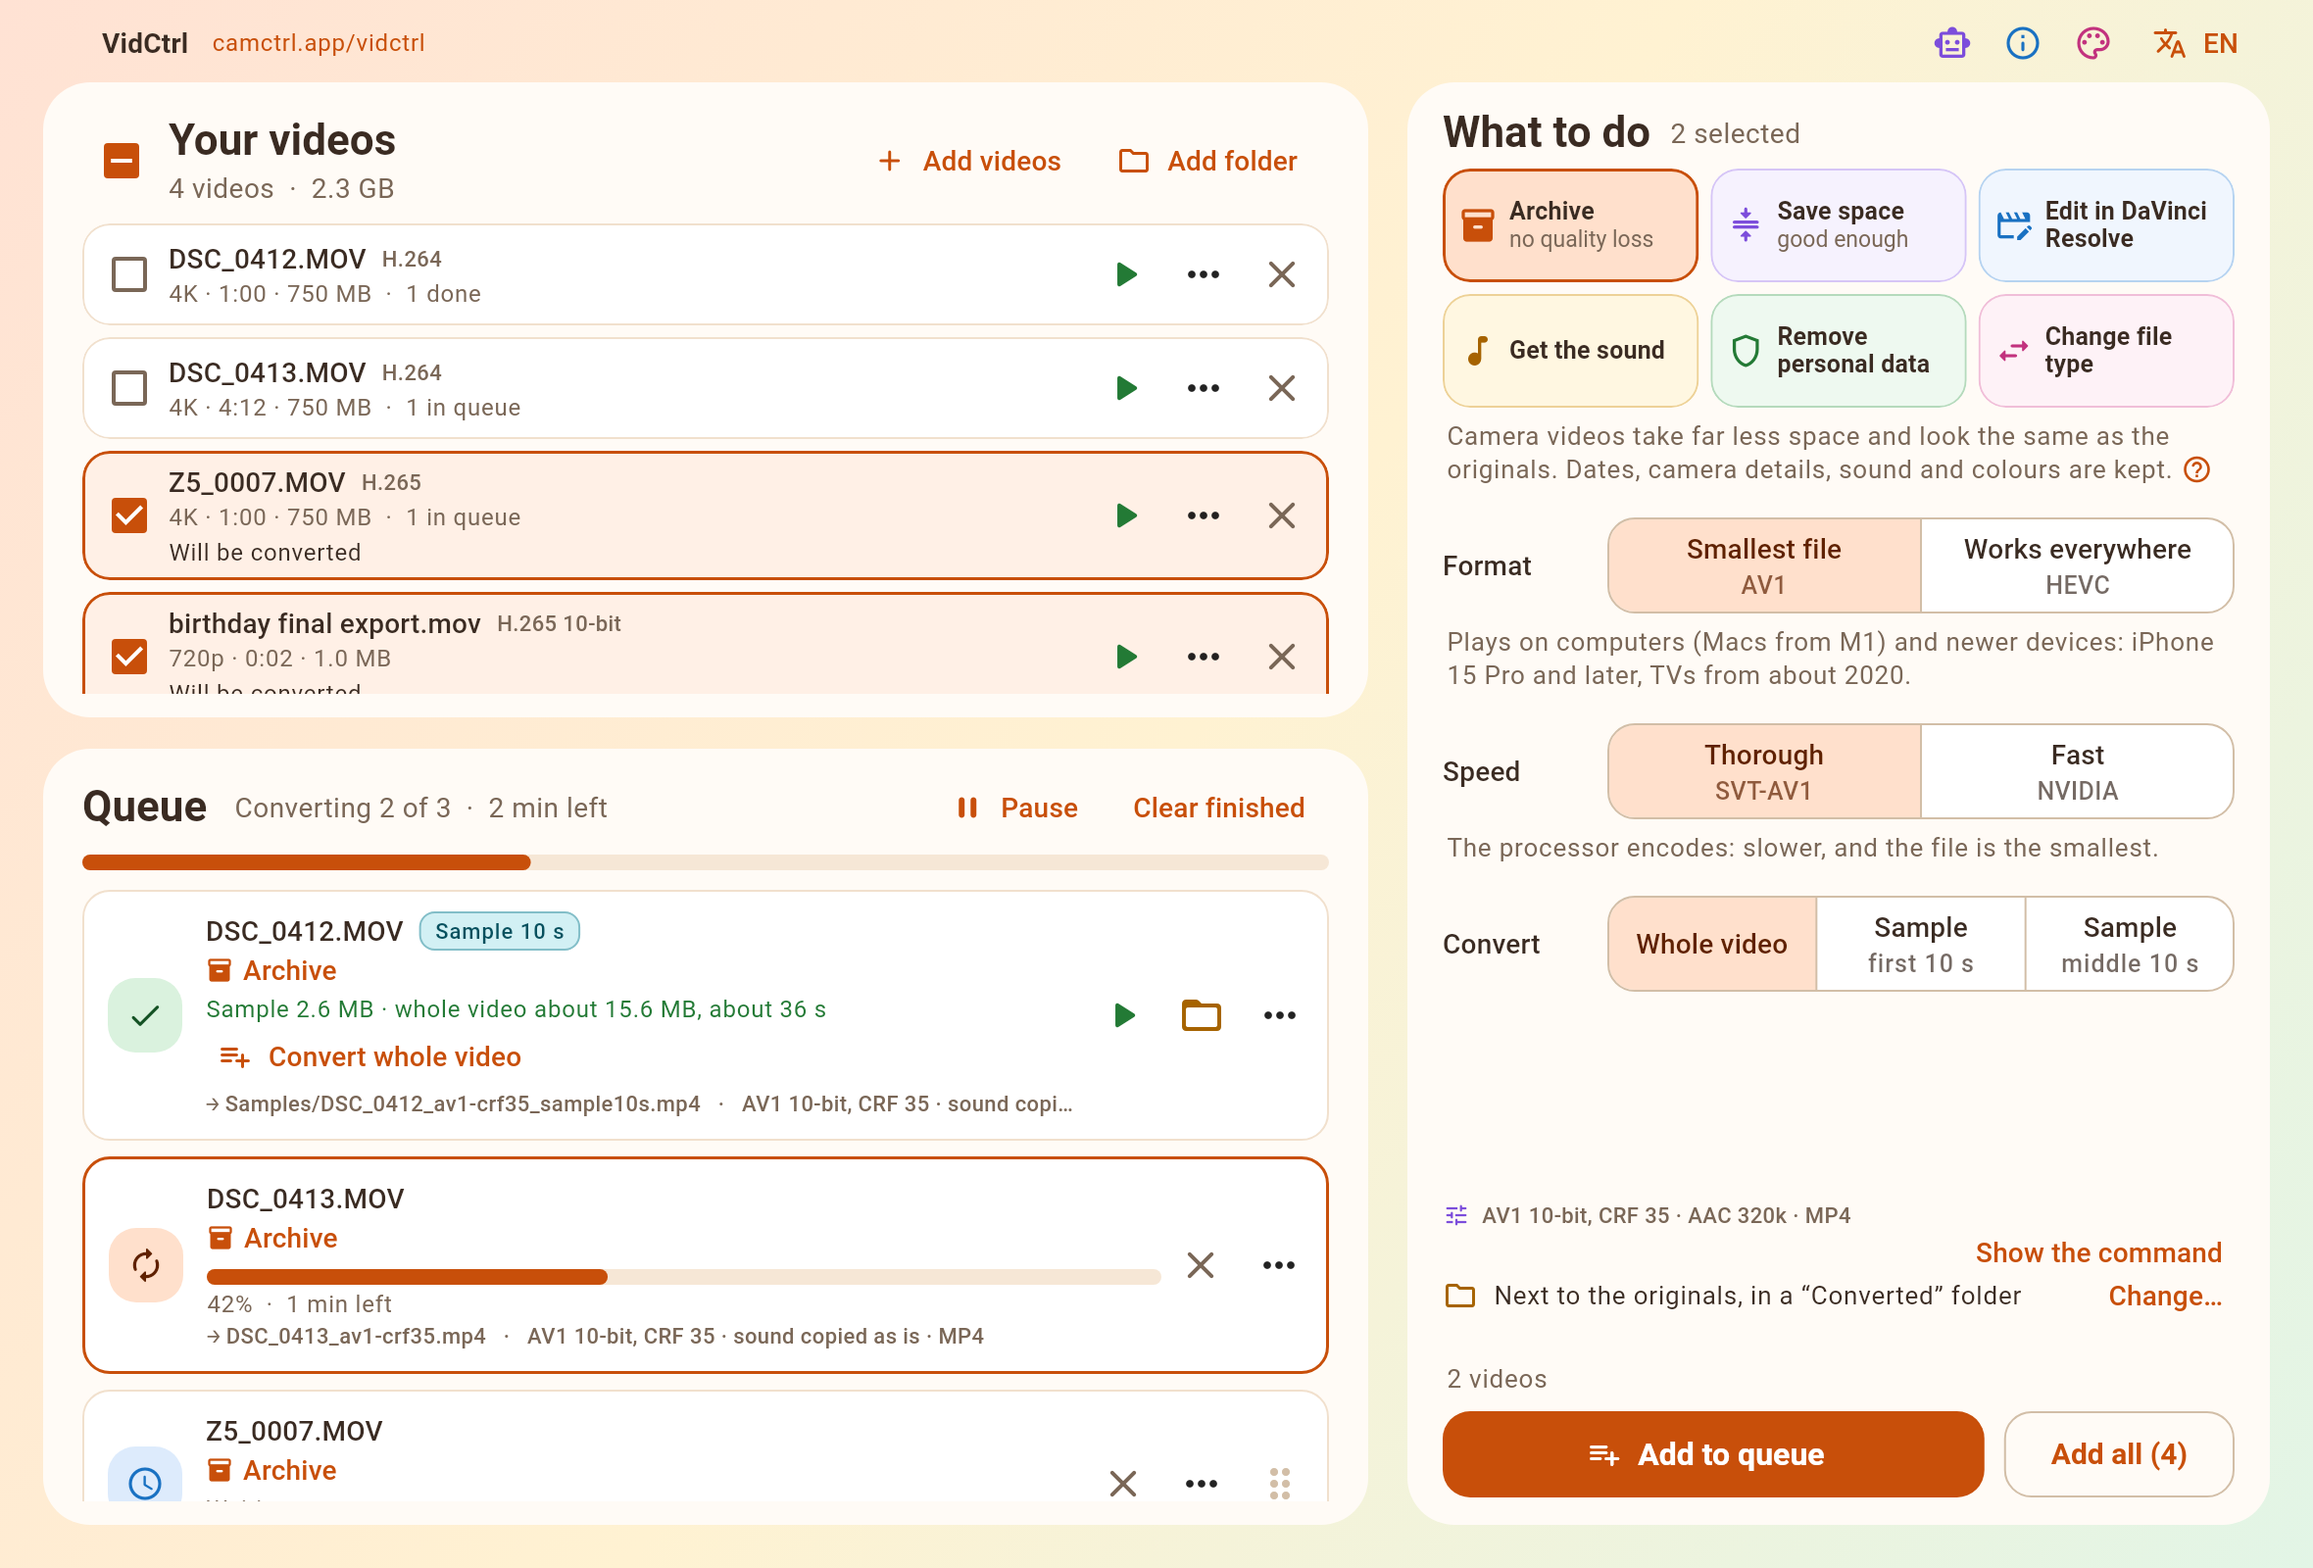
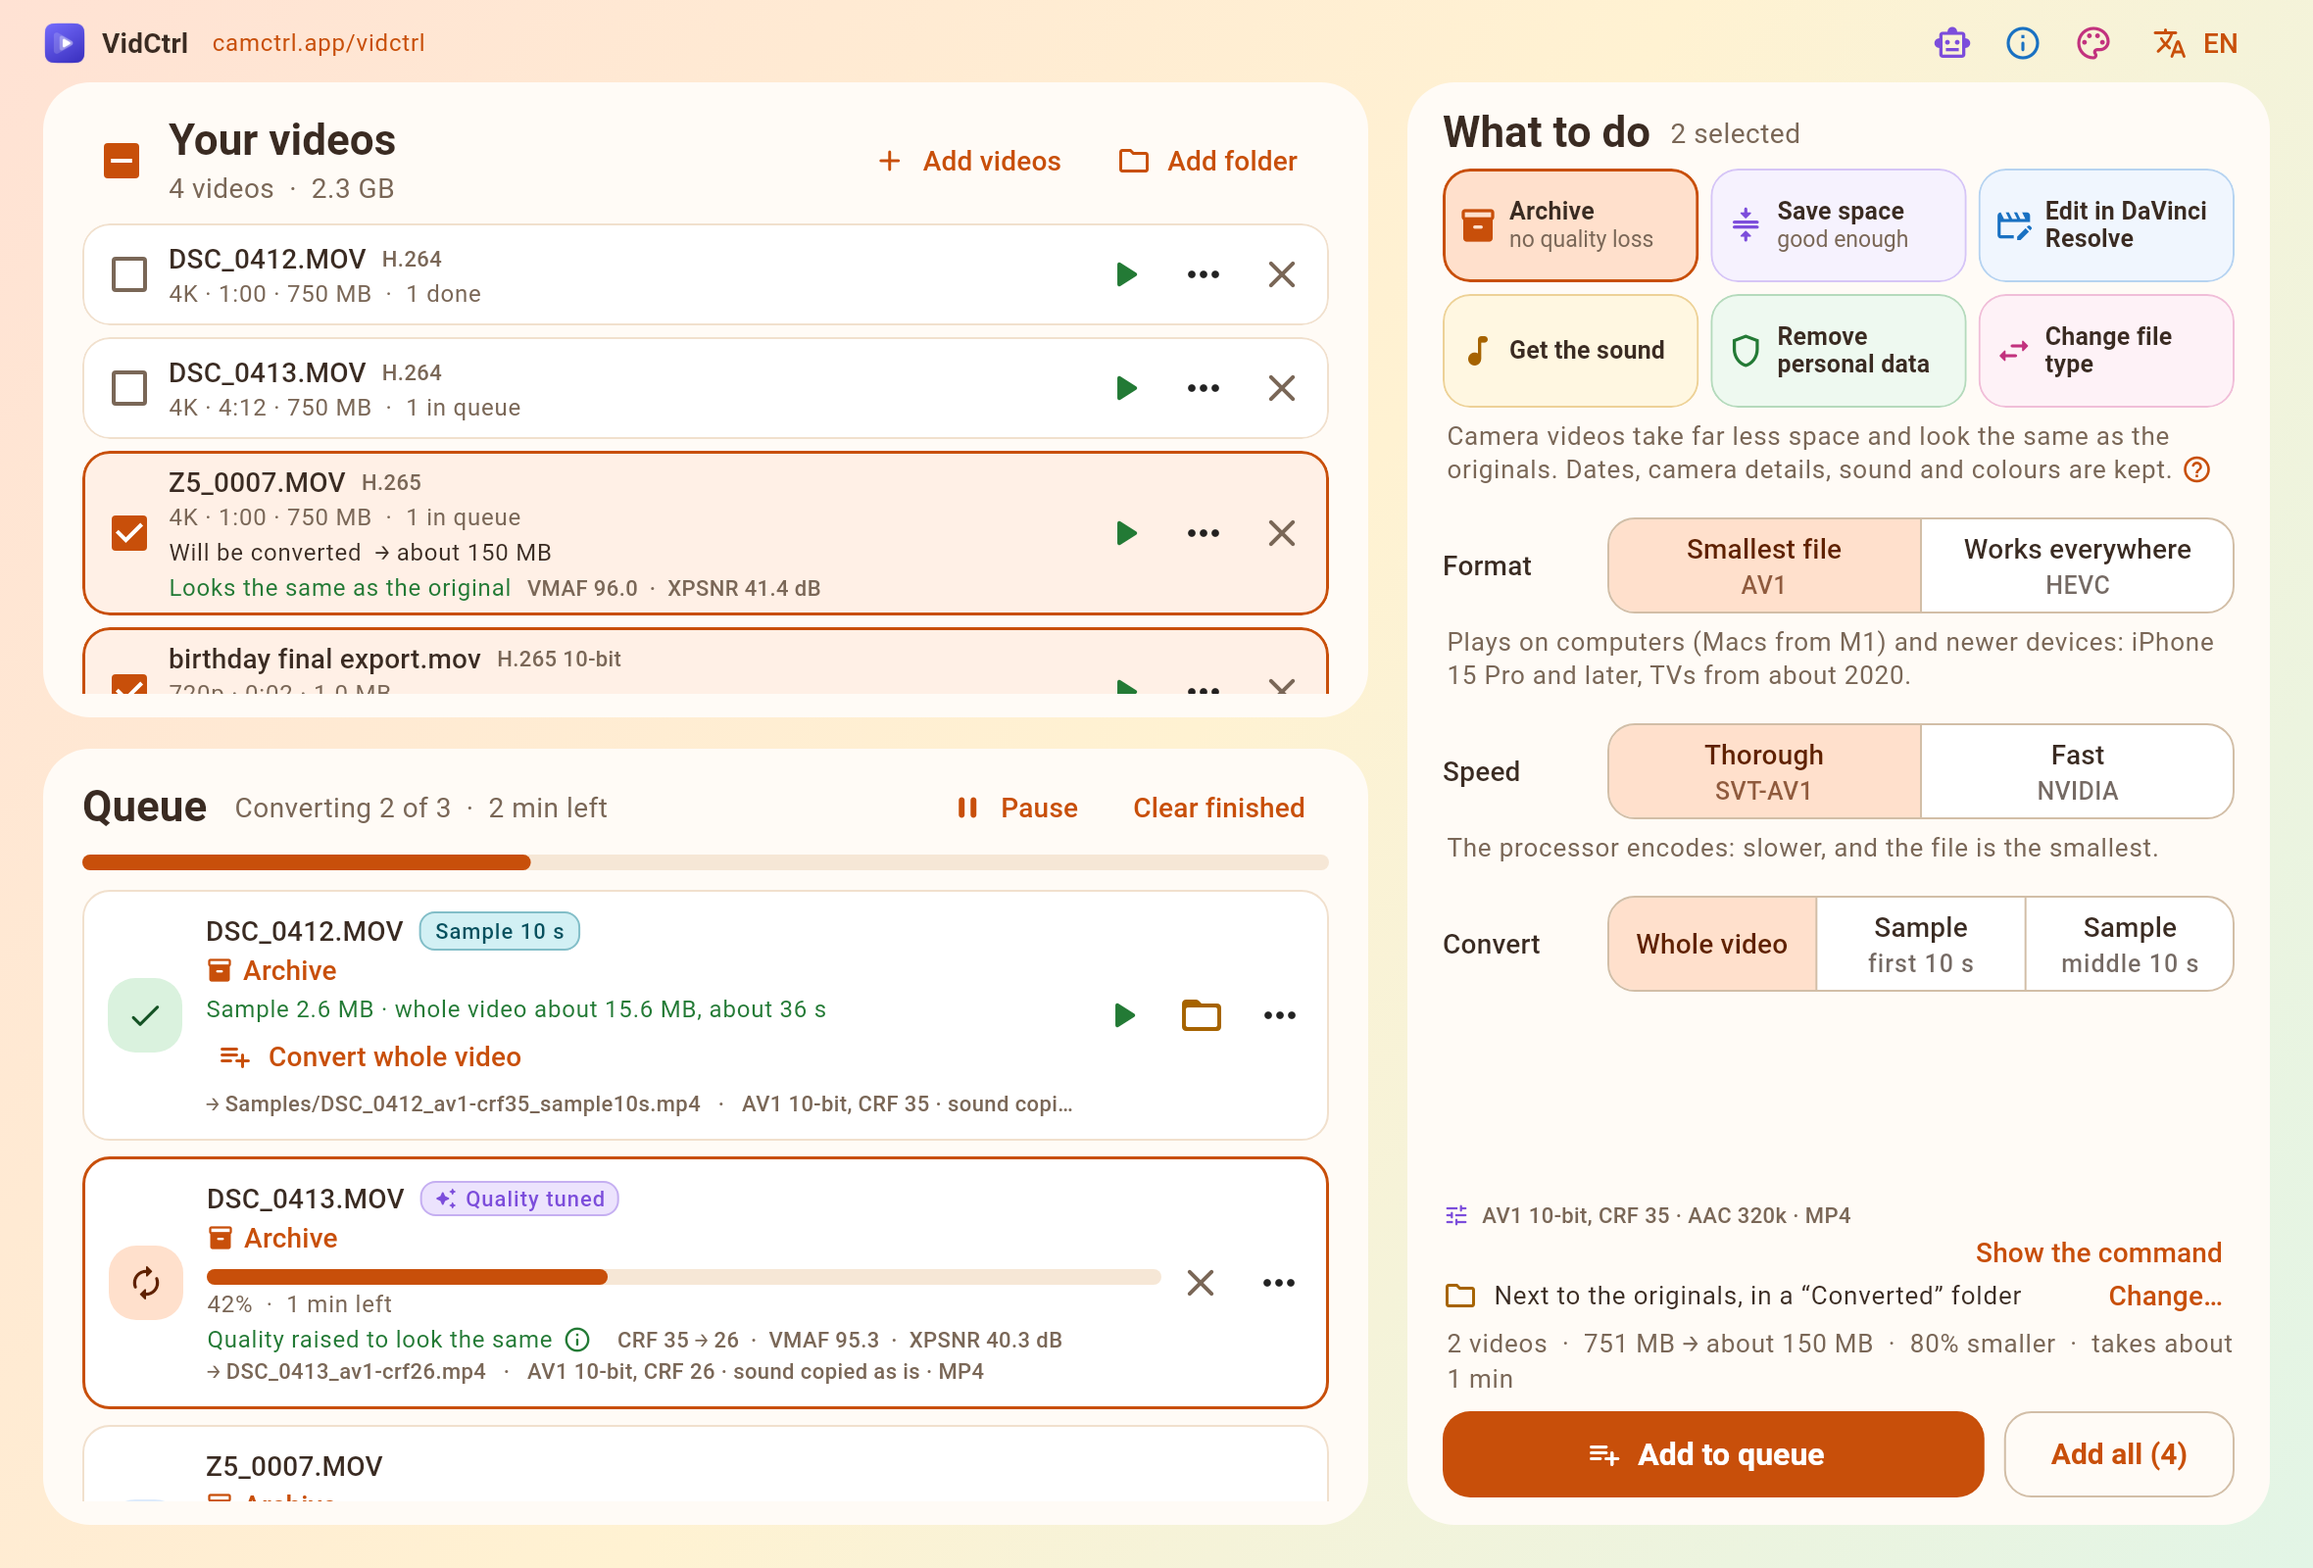
Explain how the archive chooses each video's quality, and show it in the README's pictures

diff --git a/tool/make_screenshots.dart b/tool/make_screenshots.dart
@@ -19,6 +19,8 @@ import 'package:vidctrl/app/recipe/recipe.dart';
 import 'package:vidctrl/app/recipe/recipe_controller.dart';
 import 'package:vidctrl/app/theme.dart';
 import 'package:vidctrl/core/media/ffprobe.dart';
+import 'package:vidctrl/core/quality/quality_meter.dart';
+import 'package:vidctrl/core/quality/quality_search.dart';
 
 import '../test/support/fake_media.dart';
 import '../test/support/fakes.dart';
@@ -42,6 +44,11 @@ void main() {
       debugDefaultTargetPlatformOverride = TargetPlatform.linux;
 
       final env = FakeEnvironment(capabilities: withGpu({'av1_nvenc'}));
+      // What a camera's file measures: nothing to see. The second video
+      // needs a better quality than the archive's usual one.
+      env.estimator
+        ..quality = const QualityScore(41.4, vmaf: 96.0)
+        ..choices[_videos[1]] = fakeChoice(QualityOutcome.raised);
       env.ffprobe.add(_videos[0]);
       env.ffprobe.add(
         _videos[1],
@@ -72,7 +79,12 @@ void main() {
       // The state is set through the controllers rather than by clicking, so
       // nothing is left looking hovered or pressed.
       //
-      // A finished sample of the first video...
+      // Every video measured while the queue is still idle, so the list
+      // says how close each will look...
+      await tester.pump();
+      await tester.pump();
+
+      // ...a finished sample of the first video...
       sources.select(0);
       recipe.setSample(SampleChoice.start);
       await tester.pump();
@@ -102,6 +114,12 @@ void main() {
       queue.addSelected();
       await tester.pump();
       sources.toggle(3);
+      await tester.pump();
+
+      // The header's icon is decoded outside the test's simulated clock.
+      await tester.runAsync(
+        () => Future<void>.delayed(const Duration(milliseconds: 400)),
+      );
       await tester.pump();
 
       await saveScreenshot(tester, look.name, folder: _folder, pixelRatio: 2);

diff --git a/README.md b/README.md
@@ -38,7 +38,9 @@ other:
   keeping: a fraction of the size, looking the same as the original. One
   quality, the highest; the defaults need no thought. That quality was
   measured, not guessed ([how](#how-the-archive-quality-was-measured)): the
-  smallest file that still looks the same. The "?" at the end of its
+  smallest file that still looks the same. Each video is also checked before
+  it is converted, and one that needs a better quality gets it
+  ([how](#the-quality-is-chosen-for-each-video)). The "?" at the end of its
   explanation opens the short version: the two measures, the levels they must
   reach, and the check before every release. Shooting dates, place, timecode
   and the camera's make and model are kept. Two choices, each saying what it
@@ -99,11 +101,11 @@ as the original:
 - **A second opinion:** VMAF, Netflix's measure built from viewing tests,
   rates the copies we tested 96 and up; 95 is about where people stop
   telling the two apart.
-- **Every video is different:** the setting is fixed, the footage is not.
-  Very grainy or HDR video can land a little under 42 dB (39 to 41 in our
-  tests), because grain cannot be copied exactly. VMAF stays at 95 or
-  above, and no difference shows. Reaching 42 dB on such footage would take
-  about one and a half times the file size.
+- **Every video is different:** the setting is where each video starts, not
+  where it must end. Very grainy or HDR video can land a little under 42 dB
+  (39 to 41 in our tests), because grain cannot be copied exactly, while VMAF
+  stays at 95 or above and no difference shows. Footage that falls short of
+  that too gets a better quality of its own, as below.
 
 At the same quality the files differ a lot in size, which is why the
 default is AV1 on the processor:
@@ -117,10 +119,43 @@ default is AV1 on the processor:
 | Works everywhere (HEVC), Fast on a Mac (M1) | 2.5× | 4.5× |
 
 `tool/calibrate_archive.dart` repeats the measurement on any clips, so other
-cameras and graphics cards can be checked the same way. To check one video,
-choose ⋯ → "Compare with the original" on its finished job: the app
-measures the copy against the original (VMAF and XPSNR) and says in plain
-words whether it looks the same.
+cameras and graphics cards can be checked the same way.
+
+### The quality is chosen for each video
+
+One setting cannot suit every video: an already compressed film download,
+dark and grainy, lost detail at the archive's usual quality while camera
+footage did not. So before converting, the archive checks each video:
+
+- **Measured on the video itself:** a few 3-second pieces spread over it are
+  encoded with the exact settings and compared with the original. The
+  poorest piece decides, not the average: an archive takes the original's
+  place, and the one scene that shows a difference is the one a person
+  would notice. It must reach VMAF 95 (XPSNR 42 dB with an FFmpeg that has
+  no VMAF).
+- **Looks the same:** the usual quality is kept (crf 35 for AV1, 24 for
+  HEVC); it is the poorest any video gets. The video list says so before
+  anything is converted: "Looks the same as the original".
+- **Quality raised:** a video whose poorest piece falls short gets a better
+  quality, the lowest number at which every piece looks the same, at most
+  crf 20 for AV1 (16 for HEVC), past which files grow a lot for little. It
+  is marked "Quality tuned", and its file name carries the number it got
+  (`clip_av1-crf26.mp4`). Up to six tries; most videos need one.
+- **Check by eye:** a video still short at the best quality (film grain,
+  noise or effects that a smaller file cannot copy exactly) is converted all
+  the same, its file name ending in `-check`. Its (i) shows the scores and
+  the hardest frame, original and result at their real size, to compare
+  before deleting the original.
+- **Left as it is:** a video that would keep more than four fifths of its
+  size frees too little space, so it is not converted; "Convert anyway" in
+  its ⋯ menu in the queue does it all the same.
+
+The fast choice (the graphics card) has no better quality to try, so it only
+checks and marks; Thorough raises the quality where a video needs it.
+
+To check one video after converting, choose ⋯ → "Compare with the original"
+on its finished job: the app measures the copy against the original (VMAF
+and XPSNR) and says in plain words whether it looks the same.
 
 ### How it works
 
@@ -148,6 +183,9 @@ Also:
 - **Expected size before starting:** for each selected video and in total,
   with the time it will take. Where the size depends on the footage, short
   pieces are encoded in the background with the exact settings and scaled up.
+- **How close before converting:** the same pieces are compared with the
+  original, so each video says how close the result will look ("Looks the
+  same as the original"), with the scores in small type.
 - Progress, time left and expected size while converting.
 - **Video details:** a frame of the video and its key facts, then every
   detail (codecs, bitrates, colour, HDR, sound tracks, timecode), all
